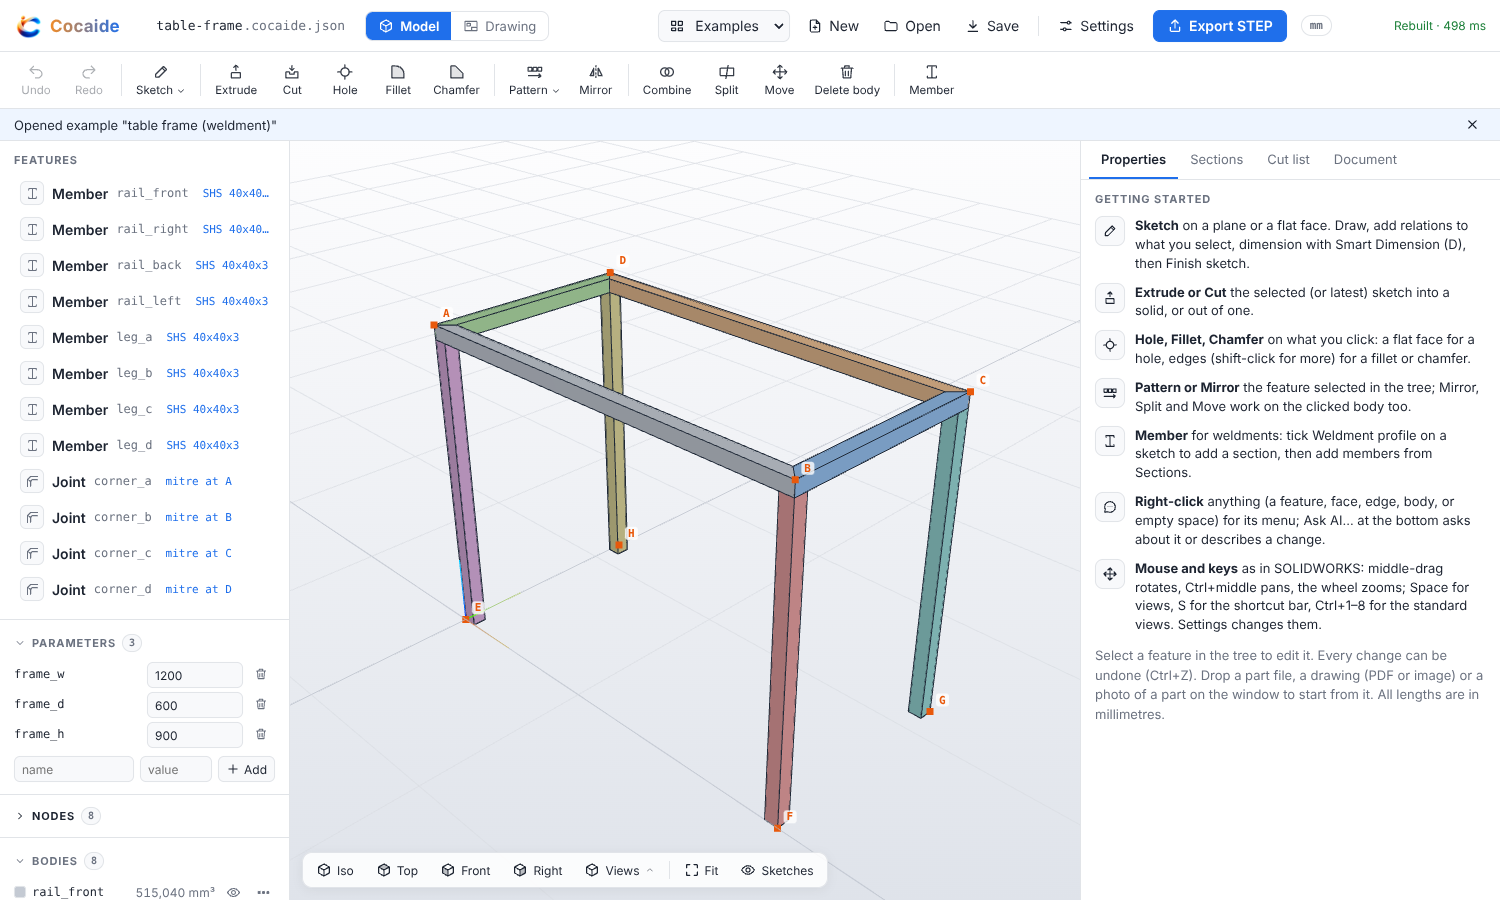
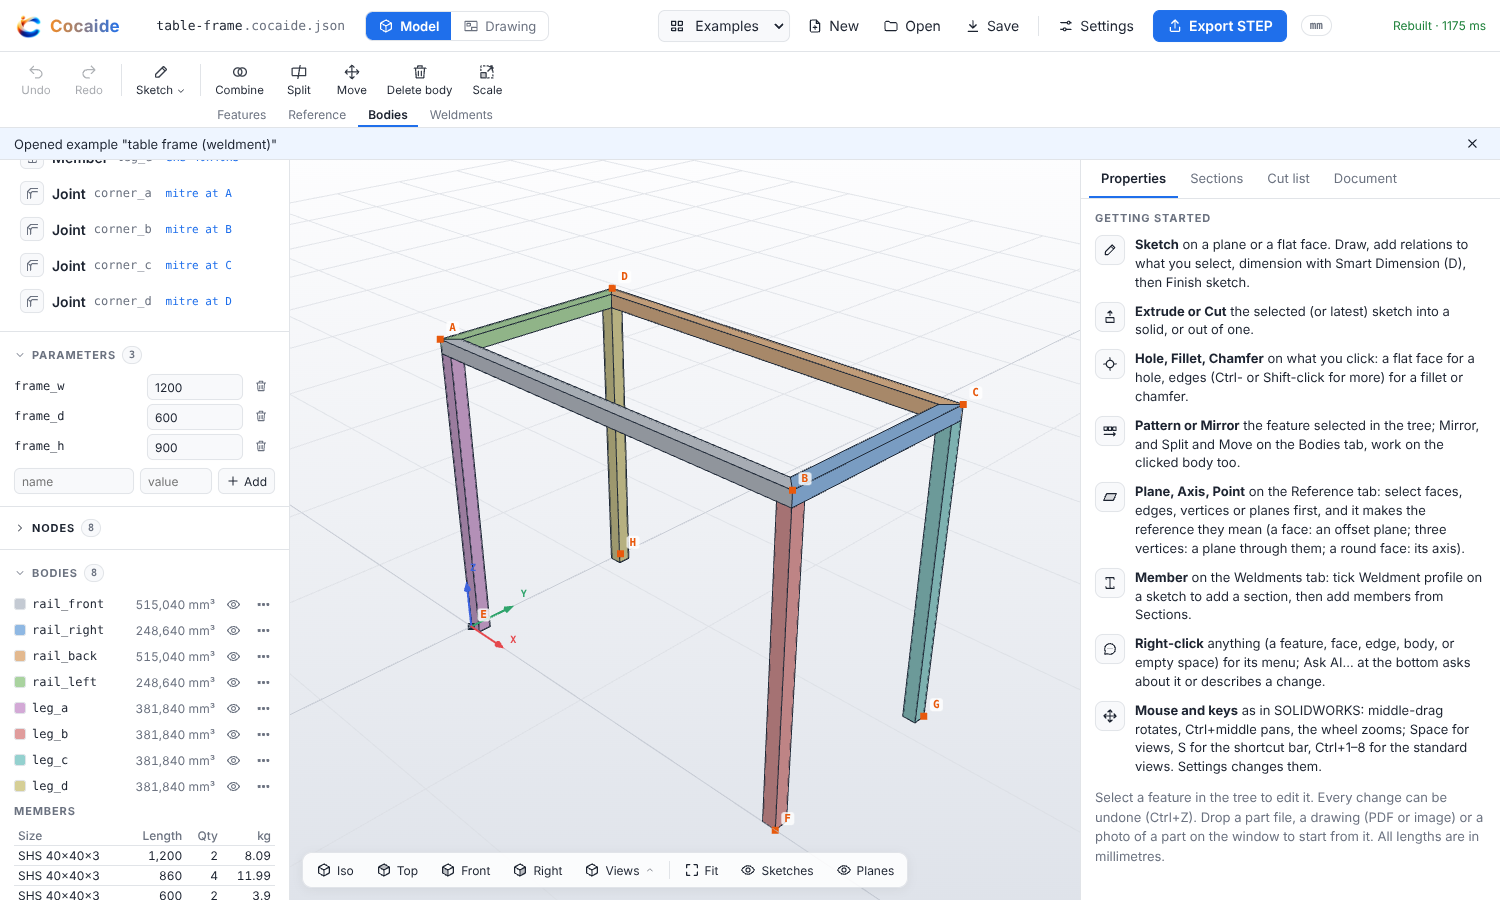
W3 sketch edit: reference docs for offset and symmetric entities and the edit tools; key test follows Trim landing
Claude-Session: https://claude.ai/code/session_01ChhJU5NmYXBo7cA4eKhPqx

diff --git a/src/mcp/reference.ts b/src/mcp/reference.ts
@@ -76,8 +76,36 @@ Relations:
   { "type": "concentric", "entities": ["c1", "a1"] }
   { "type": "equal", "entities": ["c1", "c2"] }                  (two lines' lengths, or two radii)
   { "type": "symmetric", "points": ["l1.start", "l2.start"], "line": "l3" }
+  { "type": "symmetric", "entities": ["l1", "l4"], "line": "l3" }   (two lines, two arcs or two circles that are each
+                                                                 other's mirror images about l3 (or "X", "Y"): ends paired
+                                                                 as they lie, centres and radii mirrored; Mirror makes these)
   { "type": "fix", "entity": "l1" }                              (or "point": "l1.end", or a point entity: held where it is)
+  { "type": "offset", "entities": ["l1", "a1", "l2"], "offsets": ["l5", "a3", "l6"], "value": 3 }
+      Offset Entities' one driving distance: each offsets[i] lies "value" mm from entities[i], on the side it is on now
+      (a line parallel to its base; an arc or circle concentric, its radius "value" more or less). A base may be a point
+      ref ("l1.end"): its offset is an arc centred there, of radius "value" (a round corner, an arc cap). Change the value
+      (setDimension) and the whole offset moves; the offset pieces are joined to each other by coincident (and tangent,
+      where an arc runs on smoothly) relations. Deleting an offset piece drops only its pair.
 A relation that repeats or contradicts what the sketch already fixes is refused.
+
+### Sketch edits the app makes (do the same with addEntity / updateEntity / deleteEntity / addConstraint)
+The sketcher's edit tools (Trim, Extend, Split, Fillet, Chamfer, Offset, Mirror, Linear and Circular pattern, Move,
+Copy, Rotate, Scale, Explode, Check sketch) only ever write plain entities and the relations above:
+  trim / split: a line or arc shortened (its end's relations dropped), a piece cut out of the middle leaves two, the
+    second collinear with the first (an arc: coincident centres and equal); a trimmed circle becomes an arc; each new
+    end coincident with the end it landed on, or pointOn the entity it landed on.
+  fillet: both lines (or arcs) shortened, an arc between them with coincident ends and tangent to both; one "radius"
+    dimension, the other fillets made with it "equal" to the first. "Keep constrained corners" leaves a construction
+    point at the old corner, pointOn both entities, carrying what was related or dimensioned to the corner.
+  chamfer: a line across the corner, coincident with both shortened lines, two "distance" dimensions (or a distance and
+    an "angle") from a construction point left at the old corner.
+  linear pattern: copies "equal" to the seed (lines also parallel), on a chain of construction lines, collinear and
+    "equal" to the first, whose "distance" is the spacing (and "horizontal"/"vertical" or an "angle" to "X").
+  circular pattern: copies "equal" to the seed; construction spokes from the centre, "equal"; equal construction chords
+    between neighbouring places; one "angle" dimension between the first two spokes.
+  explode: a rect becomes 4 lines (corner rectangle relations); a slot 2 lines, 2 arcs and a construction centreline.
+A profile must be clean to extrude: no open ends, no ends that nearly meet, no crossings or overlaps, no zero-length or
+doubled entities (the sketcher's Check sketch lists these and fixes the simple ones).
 
 ### The sketch axes, and references to the model (dimension to model edges; they follow the model)
 Every sketch has two axis lines, "X" and "Y" (through its origin along its x and y), usable wherever a line id is, as

diff --git a/tests/input.test.ts b/tests/input.test.ts
@@ -51,9 +51,9 @@ describe("keys", () => {
     expect(inputPrefs().keys).toEqual({});
   });
 
-  it("keeps keys for the sketch tools still to come; one of them gives its key up without a word", () => {
+  it("keeps keys for the sketch tools; one (Trim, landed in wave 3) says so when it gives its key up", () => {
     expect(["sketch.trim", "sketch.extend", "sketch.point", "sketch.mirror", "sketch.centerline"].map((id) => keyFor(id))).toEqual(["T", "E", "P", "M", "Shift+L"]);
-    expect(bindKey("sketch.line", "T")).toBeNull();
+    expect(bindKey("sketch.line", "T")).toBe("Trim");
     expect(keyFor("sketch.trim")).toBeNull();
     expect(keyFor("sketch.line")).toBe("T");
   });
